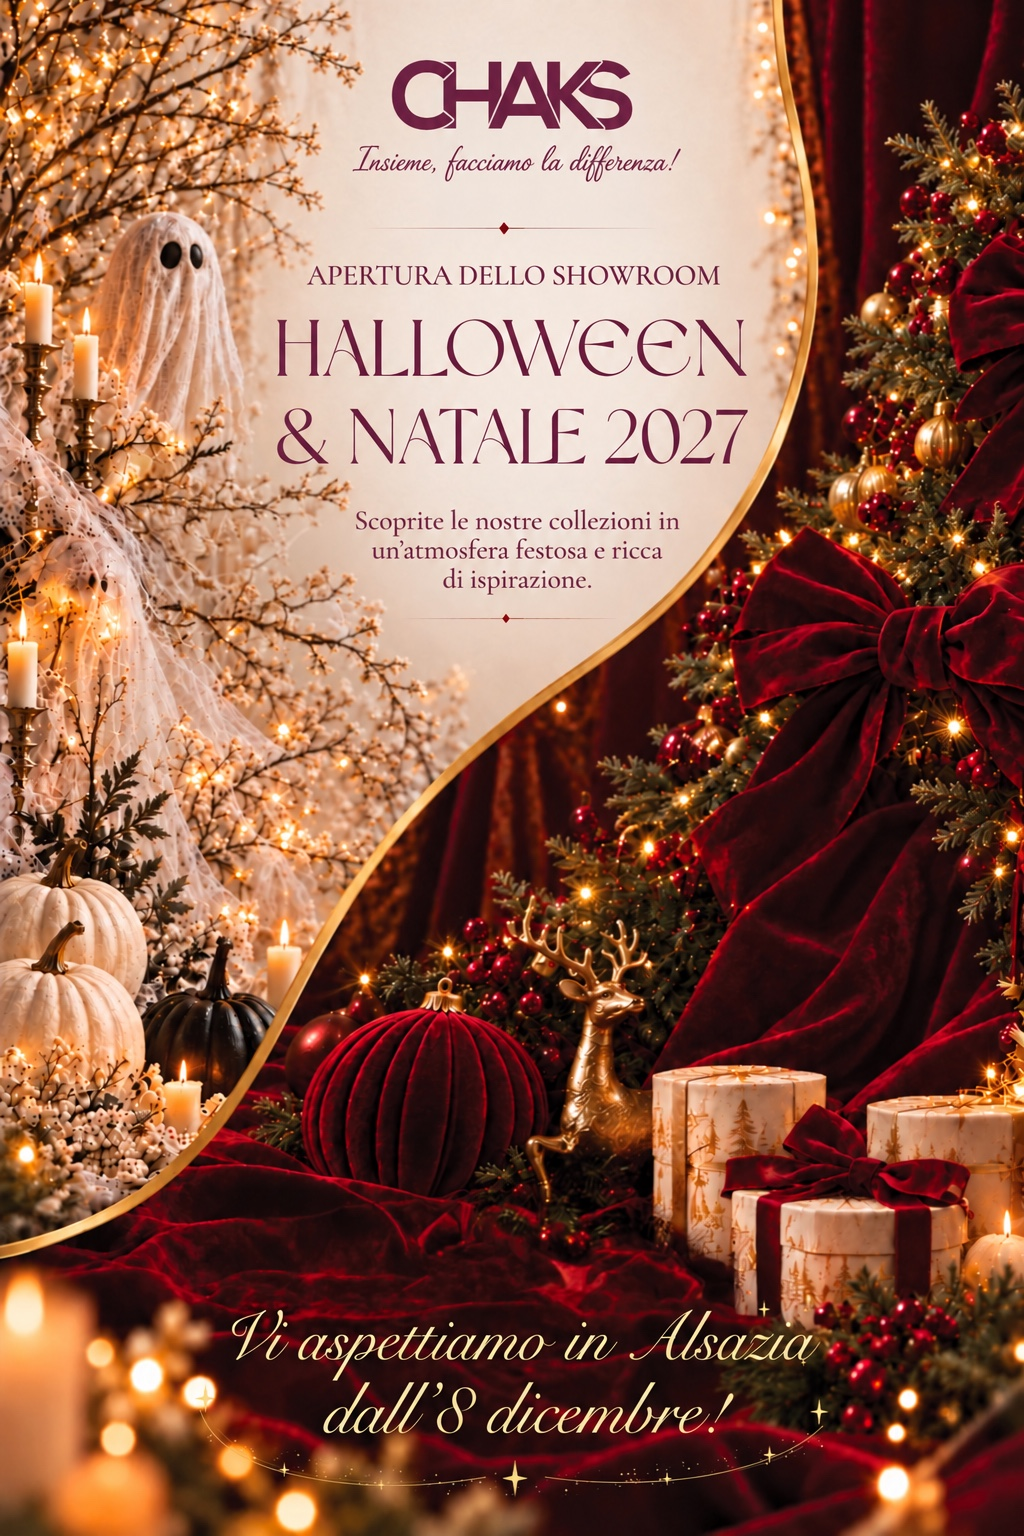
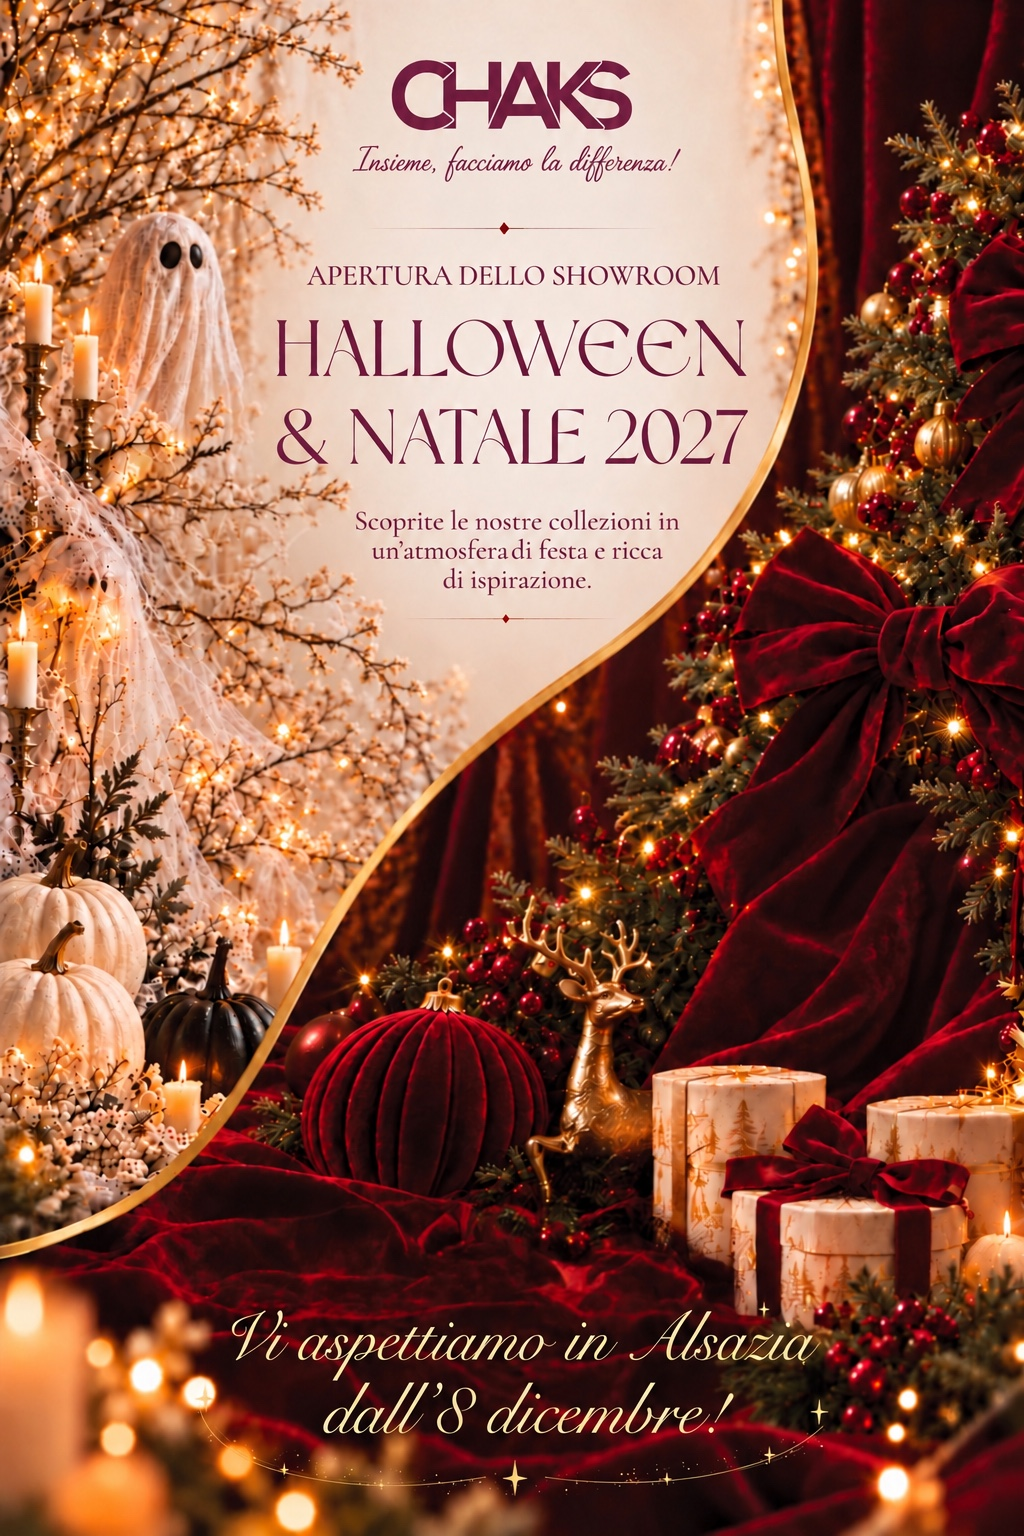
Add files via upload

diff --git a/index.html b/index.html
@@ -1,2 +1,2 @@
 <!doctype html>
-<html lang="fr"><head><meta charset="utf-8"><meta name="viewport" content="width=device-width,initial-scale=1"><meta name="theme-color" content="#491025"><title>Votre invitation showroom · CHAKS</title><meta name="description" content="Halloween & Noël 2027. Rendez-vous en Alsace dès le 8 décembre. Découvrez nos collections au showroom."><meta property="og:title" content="CHAKS · Votre invitation showroom"><meta property="og:description" content="Découvrez nos collections Halloween & Noël 2027 et réservez votre visite."><meta property="og:type" content="website"><link rel="preconnect" href="https://fonts.googleapis.com"><link rel="preconnect" href="https://fonts.gstatic.com" crossorigin><link href="https://fonts.googleapis.com/css2?family=Waterfall&display=swap" rel="stylesheet"><link rel="stylesheet" href="styles.css?v=20261026-multilingual"><script defer src="translations.js?v=20261026-slogan"></script><script defer src="languages.js?v=20261026-slogan"></script></head><body><header class="language-header"><nav class="language-switch" aria-label="Choisir la langue" data-i18n-aria="languageLabel"><a href="?lang=fr" data-language="fr" lang="fr" hreflang="fr" aria-label="Français" aria-current="true">FR</a><a href="?lang=de" data-language="de" lang="de" hreflang="de" aria-label="Deutsch">DE</a><a href="?lang=it" data-language="it" lang="it" hreflang="it" aria-label="Italiano">IT</a><a href="?lang=en" data-language="en" lang="en" hreflang="en" aria-label="English">EN</a></nav></header><div class="mobile-intro" data-i18n="invitation">VOTRE INVITATION CHAKS</div><main><figure><img id="invitation-poster" src="assets/invitation-fr.jpg" alt="CHAKS — Ouverture du showroom Halloween & Noël 2027. Découvrez nos collections dans une ambiance festive et inspirante. Rendez-vous en Alsace dès le 8 décembre !" width="1067" height="1600"></figure><section><div class="eyebrow" data-i18n="collection">Halloween & Noël 2027</div><div class="ornament"></div><h1><span data-i18n="heading">Votre invitation</span><br><em data-i18n="headingAccent">au showroom.</em></h1><p data-i18n="introduction">Découvrez nos collections Halloween & Noël 2027 dans une ambiance festive et inspirante.</p><p class="date"><span data-i18n="location">Rendez-vous en Alsace</span><br><span data-i18n="date">dès le 8 décembre</span></p><a class="cta cta-booking" href="https://bookings.cloud.microsoft/book/RservezvotrevisiteaushowroomCHAKS20262027@chaks.fr/?ismsaljsauthenabled"><svg class="gift" viewBox="0 0 24 24" fill="none" stroke="currentColor" stroke-width="1.5" aria-hidden="true"><rect x="3" y="5" width="18" height="16" rx="2"/><path d="M16 3v4M8 3v4M3 11h18m-14 4h3m4 0h3"/></svg><span data-i18n="booking">Prendre rendez-vous avec votre commercial</span><span aria-hidden="true">↗</span></a><div class="signature" data-i18n="slogan">Ensemble, faisons la différence !</div><div class="brand-links"><a class="website-link" data-i18n-aria="websiteLabel" href="https://www.chaks.eu/fr/" target="_blank" rel="noopener noreferrer" aria-label="Visiter le site CHAKS (nouvel onglet)">www.chaks.eu <span aria-hidden="true">↗</span></a><nav class="social-links" data-i18n-aria="socialLabel" aria-label="Retrouvez CHAKS sur les réseaux sociaux"><a href="https://www.instagram.com/chaks.eu" target="_blank" rel="noopener noreferrer" aria-label="CHAKS sur Instagram (nouvel onglet)" title="Instagram" data-network="Instagram"><svg viewBox="0 0 24 24" fill="none" stroke="currentColor" stroke-width="1.7" aria-hidden="true"><rect x="3" y="3" width="18" height="18" rx="5"/><circle cx="12" cy="12" r="4"/><circle cx="17.5" cy="6.5" r="1" fill="currentColor" stroke="none"/></svg></a><a href="https://fr.linkedin.com/company/chaks-eu" target="_blank" rel="noopener noreferrer" aria-label="CHAKS sur LinkedIn (nouvel onglet)" title="LinkedIn" data-network="LinkedIn"><svg viewBox="0 0 24 24" fill="currentColor" aria-hidden="true"><path d="M20.45 2H3.55C2.69 2 2 2.68 2 3.52v16.96c0 .84.69 1.52 1.55 1.52h16.9c.86 0 1.55-.68 1.55-1.52V3.52c0-.84-.69-1.52-1.55-1.52ZM7.93 18.75H4.96V9.2h2.97v9.55ZM6.45 7.9a1.72 1.72 0 1 1 0-3.44 1.72 1.72 0 0 1 0 3.44Zm12.3 10.85h-2.97V14.1c0-1.11-.02-2.54-1.55-2.54-1.55 0-1.79 1.21-1.79 2.46v4.73H9.47V9.2h2.85v1.3h.04c.4-.76 1.37-1.56 2.82-1.56 3.01 0 3.57 1.98 3.57 4.55v5.26Z"/></svg></a><a href="https://www.youtube.com/@chaks_eu" target="_blank" rel="noopener noreferrer" aria-label="CHAKS sur YouTube (nouvel onglet)" title="YouTube" data-network="YouTube"><svg viewBox="0 0 24 24" fill="currentColor" aria-hidden="true"><path d="M23 7a3 3 0 0 0-2.1-2.1C19 4.4 12 4.4 12 4.4s-7 0-8.9.5A3 3 0 0 0 1 7a31 31 0 0 0-.5 5 31 31 0 0 0 .5 5 3 3 0 0 0 2.1 2.1c1.9.5 8.9.5 8.9.5s7 0 8.9-.5A3 3 0 0 0 23 17a31 31 0 0 0 .5-5 31 31 0 0 0-.5-5ZM9.7 15.4V8.6l6 3.4-6 3.4Z"/></svg></a></nav></div></section></main><footer data-i18n="footer">CHAKS · Ouverture du showroom</footer></body></html>
+<html lang="fr"><head><meta charset="utf-8"><meta name="viewport" content="width=device-width,initial-scale=1"><meta name="theme-color" content="#491025"><title>Votre invitation showroom · CHAKS</title><meta name="description" content="Halloween & Noël 2027. Rendez-vous en Alsace dès le 8 décembre. Découvrez nos collections au showroom."><meta property="og:title" content="CHAKS · Votre invitation showroom"><meta property="og:description" content="Découvrez nos collections Halloween & Noël 2027 et réservez votre visite."><meta property="og:type" content="website"><link rel="preconnect" href="https://fonts.googleapis.com"><link rel="preconnect" href="https://fonts.gstatic.com" crossorigin><link href="https://fonts.googleapis.com/css2?family=Waterfall&display=swap" rel="stylesheet"><link rel="stylesheet" href="styles.css?v=20261026-multilingual"><script defer src="translations.js?v=20261103-festa"></script><script defer src="languages.js?v=20261103-festa"></script></head><body><header class="language-header"><nav class="language-switch" aria-label="Choisir la langue" data-i18n-aria="languageLabel"><a href="?lang=fr" data-language="fr" lang="fr" hreflang="fr" aria-label="Français" aria-current="true">FR</a><a href="?lang=de" data-language="de" lang="de" hreflang="de" aria-label="Deutsch">DE</a><a href="?lang=it" data-language="it" lang="it" hreflang="it" aria-label="Italiano">IT</a><a href="?lang=en" data-language="en" lang="en" hreflang="en" aria-label="English">EN</a></nav></header><div class="mobile-intro" data-i18n="invitation">VOTRE INVITATION CHAKS</div><main><figure><img id="invitation-poster" src="assets/invitation-fr.jpg" alt="CHAKS — Ouverture du showroom Halloween & Noël 2027. Découvrez nos collections dans une ambiance festive et inspirante. Rendez-vous en Alsace dès le 8 décembre !" width="1067" height="1600"></figure><section><div class="eyebrow" data-i18n="collection">Halloween & Noël 2027</div><div class="ornament"></div><h1><span data-i18n="heading">Votre invitation</span><br><em data-i18n="headingAccent">au showroom.</em></h1><p data-i18n="introduction">Découvrez nos collections Halloween & Noël 2027 dans une ambiance festive et inspirante.</p><p class="date"><span data-i18n="location">Rendez-vous en Alsace</span><br><span data-i18n="date">dès le 8 décembre</span></p><a class="cta cta-booking" href="https://bookings.cloud.microsoft/book/RservezvotrevisiteaushowroomCHAKS20262027@chaks.fr/?ismsaljsauthenabled"><svg class="gift" viewBox="0 0 24 24" fill="none" stroke="currentColor" stroke-width="1.5" aria-hidden="true"><rect x="3" y="5" width="18" height="16" rx="2"/><path d="M16 3v4M8 3v4M3 11h18m-14 4h3m4 0h3"/></svg><span data-i18n="booking">Prendre rendez-vous avec votre commercial</span><span aria-hidden="true">↗</span></a><div class="signature" data-i18n="slogan">Ensemble, faisons la différence !</div><div class="brand-links"><a class="website-link" data-i18n-aria="websiteLabel" href="https://www.chaks.eu/fr/" target="_blank" rel="noopener noreferrer" aria-label="Visiter le site CHAKS (nouvel onglet)">www.chaks.eu <span aria-hidden="true">↗</span></a><nav class="social-links" data-i18n-aria="socialLabel" aria-label="Retrouvez CHAKS sur les réseaux sociaux"><a href="https://www.instagram.com/chaks.eu" target="_blank" rel="noopener noreferrer" aria-label="CHAKS sur Instagram (nouvel onglet)" title="Instagram" data-network="Instagram"><svg viewBox="0 0 24 24" fill="none" stroke="currentColor" stroke-width="1.7" aria-hidden="true"><rect x="3" y="3" width="18" height="18" rx="5"/><circle cx="12" cy="12" r="4"/><circle cx="17.5" cy="6.5" r="1" fill="currentColor" stroke="none"/></svg></a><a href="https://fr.linkedin.com/company/chaks-eu" target="_blank" rel="noopener noreferrer" aria-label="CHAKS sur LinkedIn (nouvel onglet)" title="LinkedIn" data-network="LinkedIn"><svg viewBox="0 0 24 24" fill="currentColor" aria-hidden="true"><path d="M20.45 2H3.55C2.69 2 2 2.68 2 3.52v16.96c0 .84.69 1.52 1.55 1.52h16.9c.86 0 1.55-.68 1.55-1.52V3.52c0-.84-.69-1.52-1.55-1.52ZM7.93 18.75H4.96V9.2h2.97v9.55ZM6.45 7.9a1.72 1.72 0 1 1 0-3.44 1.72 1.72 0 0 1 0 3.44Zm12.3 10.85h-2.97V14.1c0-1.11-.02-2.54-1.55-2.54-1.55 0-1.79 1.21-1.79 2.46v4.73H9.47V9.2h2.85v1.3h.04c.4-.76 1.37-1.56 2.82-1.56 3.01 0 3.57 1.98 3.57 4.55v5.26Z"/></svg></a><a href="https://www.youtube.com/@chaks_eu" target="_blank" rel="noopener noreferrer" aria-label="CHAKS sur YouTube (nouvel onglet)" title="YouTube" data-network="YouTube"><svg viewBox="0 0 24 24" fill="currentColor" aria-hidden="true"><path d="M23 7a3 3 0 0 0-2.1-2.1C19 4.4 12 4.4 12 4.4s-7 0-8.9.5A3 3 0 0 0 1 7a31 31 0 0 0-.5 5 31 31 0 0 0 .5 5 3 3 0 0 0 2.1 2.1c1.9.5 8.9.5 8.9.5s7 0 8.9-.5A3 3 0 0 0 23 17a31 31 0 0 0 .5-5 31 31 0 0 0-.5-5ZM9.7 15.4V8.6l6 3.4-6 3.4Z"/></svg></a></nav></div></section></main><footer data-i18n="footer">CHAKS · Ouverture du showroom</footer></body></html>

diff --git a/translations.js b/translations.js
@@ -35,7 +35,7 @@ window.CHAKS_TRANSLATIONS = {
     location: 'Vi aspettiamo in Alsazia', date: 'dall’8 dicembre',
     booking: 'Fissate un appuntamento con il vostro referente commerciale',
     slogan: 'Insieme, facciamo la differenza!', footer: 'CHAKS · Apertura dello showroom',
-    posterAlt: 'CHAKS — Apertura dello showroom. Halloween & Natale 2027. Scoprite le nostre collezioni in un’atmosfera festosa e ricca di ispirazione. Vi aspettiamo in Alsazia dall’8 dicembre!',
+    posterAlt: 'CHAKS — Apertura dello showroom. Halloween & Natale 2027. Scoprite le nostre collezioni in un’atmosfera di festa e ricca di ispirazione. Vi aspettiamo in Alsazia dall’8 dicembre!',
     websiteLabel: 'Visita il sito CHAKS (nuova scheda)', socialLabel: 'Seguite CHAKS sui social',
     socialLink: 'CHAKS su {network} (nuova scheda)'
   },

diff --git a/languages.js b/languages.js
@@ -32,7 +32,7 @@
       element.setAttribute('aria-label', text.socialLink.replace('{network}', element.dataset.network));
     });
     const poster = document.querySelector('#invitation-poster');
-    const imagePath = `assets/invitation-${code}.jpg` + (code === 'en' ? '?v=20261026-slogan' : '');
+    const imagePath = `assets/invitation-${code}.jpg` + (code === 'en' ? '?v=20261026-slogan' : code === 'it' ? '?v=20261103-festa' : '');
     if (poster.getAttribute('src') !== imagePath) poster.setAttribute('src', imagePath);
     poster.setAttribute('alt', text.posterAlt);
     document.querySelector('meta[name="description"]').setAttribute('content', text.description);

diff --git a/README.md b/README.md
@@ -1,1 +1,63 @@
-# showroom-2027
+# CHAKS — Invitation multilingue FR / DE / IT / EN
+
+基于无刮刮乐版本，包含四种语言的海报、网页文案、预约按钮和 slogan。
+
+## 更新现有 GitHub 网站
+
+1. 解压 ZIP。
+2. 把以下项目全部上传到 GitHub 仓库根目录，覆盖同名文件并保留 assets 文件夹结构：
+   - index.html
+   - styles.css
+   - translations.js（新增）
+   - languages.js（新增）
+   - assets/ 文件夹（4 张海报，必须一起上传）
+   - .nojekyll（若上传界面不显示此隐藏文件，可保留原有版本）
+3. 点击 Commit changes，等待 GitHub Pages 发布完成。
+4. 刷新网页；如仍显示旧版，在 Mac 按 Command + Shift + R。
+
+不要只上传 index.html 和 styles.css：多语言功能还需要两个 JS 文件和海报图片。
+
+## 客户邀请链接
+
+上传完成后使用：
+
+| 语言 | 链接 |
+| --- | --- |
+| 自动选择 / 手动切换 | https://chaks-fr.github.io/showroom-2027/ |
+| 法语 | https://chaks-fr.github.io/showroom-2027/?lang=fr |
+| 德语 | https://chaks-fr.github.io/showroom-2027/?lang=de |
+| 意大利语 | https://chaks-fr.github.io/showroom-2027/?lang=it |
+| 英语 | https://chaks-fr.github.io/showroom-2027/?lang=en |
+
+指定 lang 参数优先；没有有效 lang 参数时，按浏览器语言选择 FR / DE / IT / EN，不支持的语言回退为法语。页面顶部始终可以手动切换，切换时网址会同步更新。
+
+## 日后修改
+
+- translations.js：四种语言文案。
+- languages.js：语言切换逻辑。
+- styles.css：样式，包含居中的 Waterfall slogan 和镂空预约按钮。
+- index.html：预约链接、官网与社交账号链接。
+- assets/invitation-fr.jpg、invitation-de.jpg、invitation-it.jpg、invitation-en.jpg：对应语言海报。
+
+原始法语海报保留，三张外语海报通过内置图像工具进行文字本地化，主要装饰和布局沿用原图，细节可能与原图略有不同。已人工检查海报文字及浏览器切换效果；外语文案可在正式大规模发送前由销售团队复核。
+
+## 第三方页面
+
+预约按钮仍打开用户提供的 Microsoft Bookings 原始链接。Bookings、官网、Instagram、LinkedIn 和 YouTube 的页面语言由各平台控制，这个网站只翻译本页内容。
+
+## WhatsApp 预览
+
+网页内的语言和海报会随 lang 参数切换。社交平台抓取预览时可能不执行 JavaScript，因此链接预览的标题可能仍显示默认法语，不影响客户打开后的对应语言页面。
+
+## 本地预览
+
+可以直接打开 index.html（需保持相对文件结构）。Google Fonts 需要网络连接。也可在这个文件夹启动静态服务器。
+
+无需安装依赖、构建、数据库或 API 密钥。
+
+## Slogans validés
+
+- English: Together, let’s make it different!
+- Deutsch: Gemeinsam machen wir den Unterschied!
+
+英语页面与海报已同步采用上述新版 slogan，德语保留确认文字。
